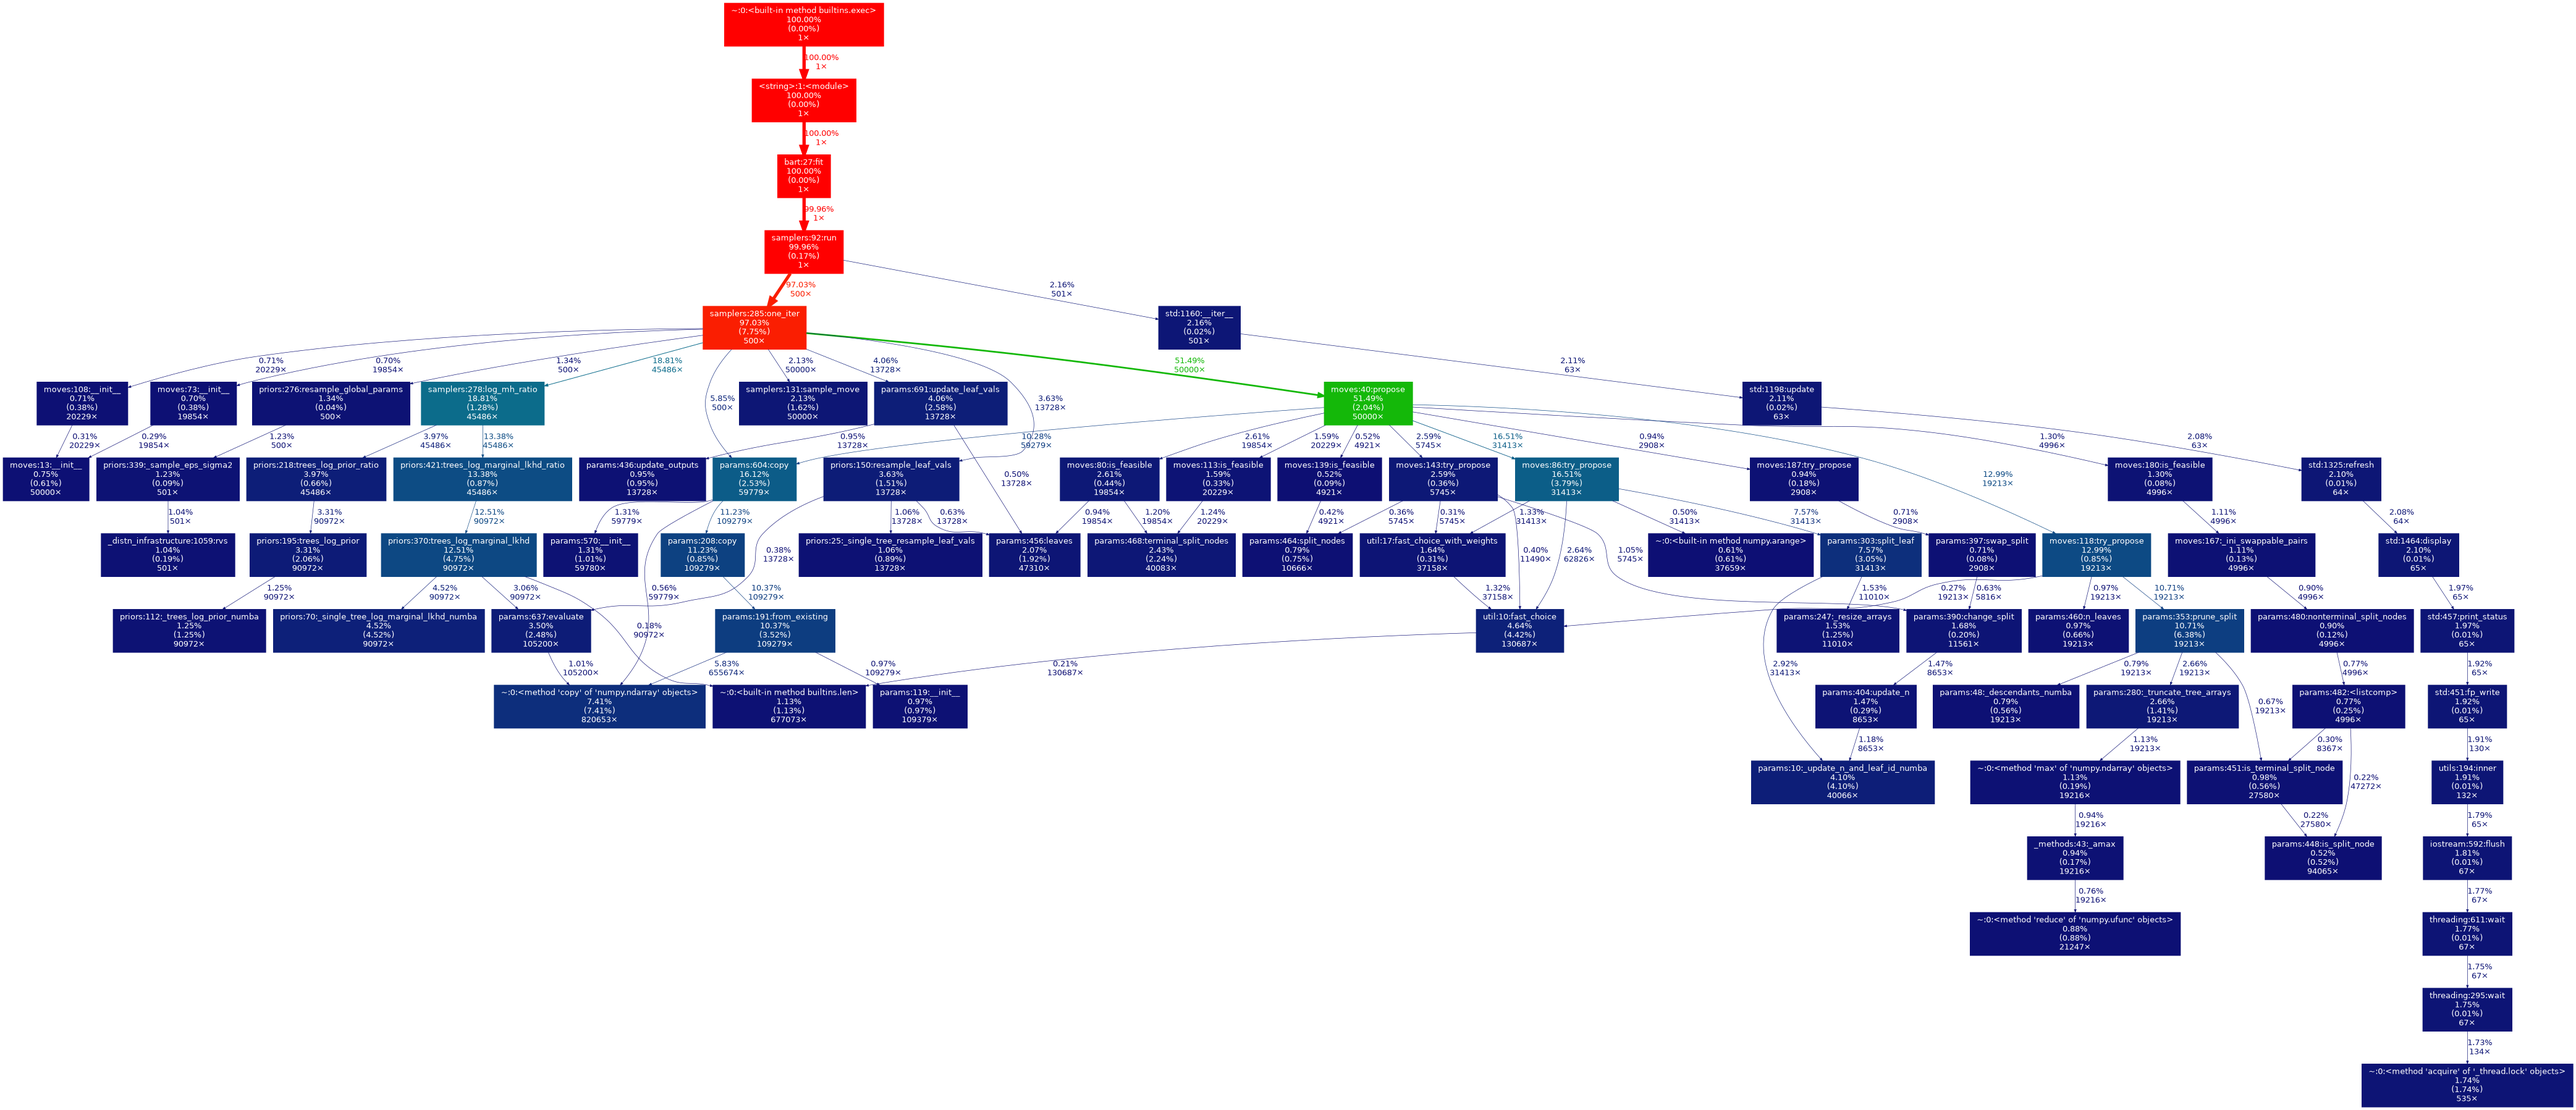
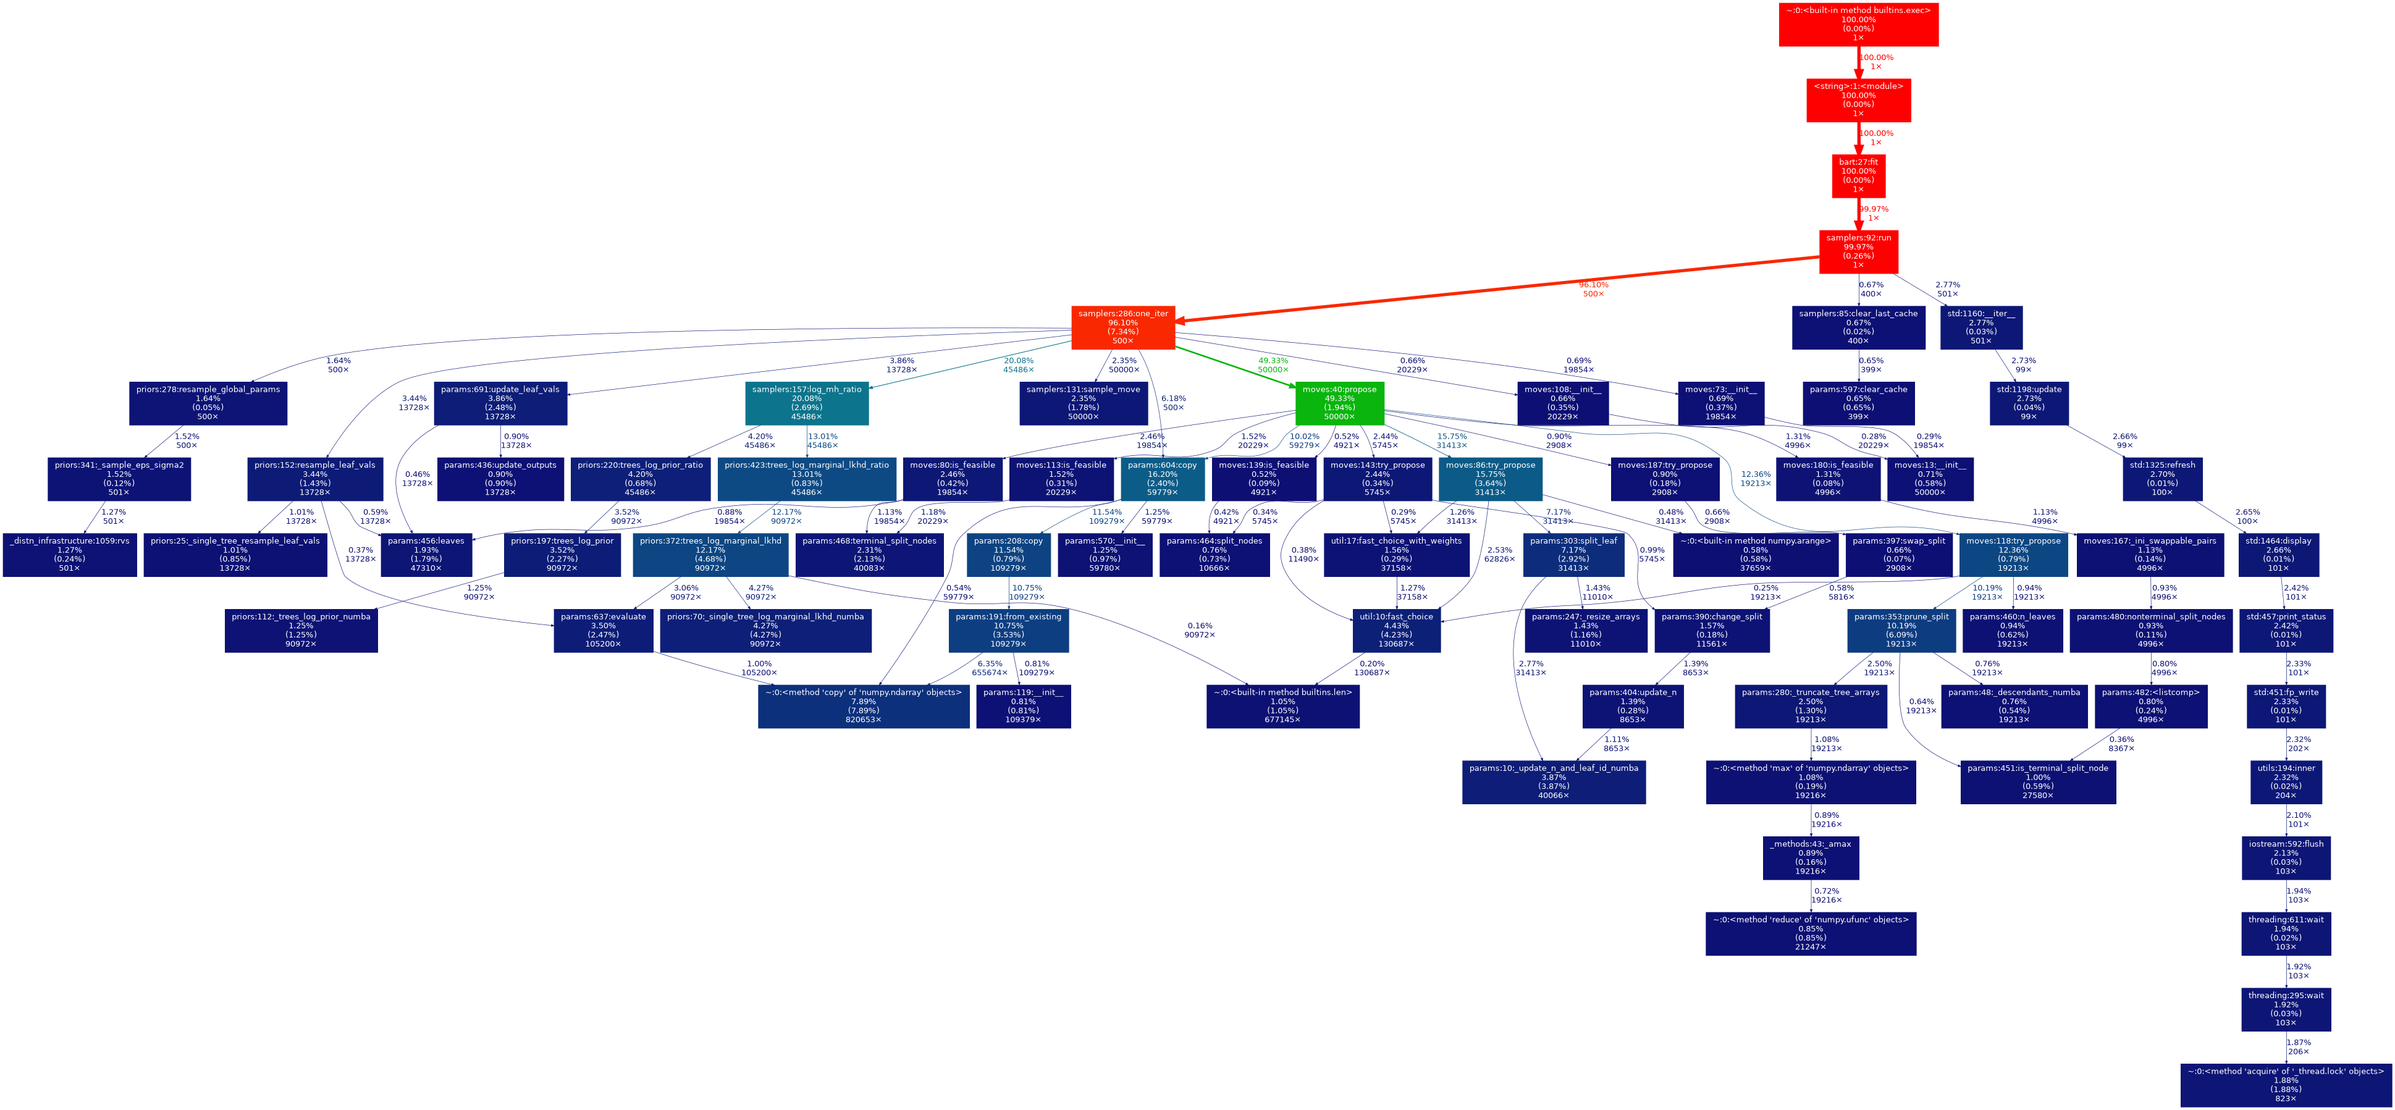
Fix a long-standing potential issue (ignoring move probability)

Changed region(s): [[0.0, 0.0, 0.9675, 0.9972], [0.5618, 0.2493, 0.6866, 0.2805], [0.9987, 0.9661, 1.0, 0.9972]]

diff --git a/bart_playground/samplers.py b/bart_playground/samplers.py
@@ -6,7 +6,7 @@ from typing import Callable, Optional, Any
 from scipy.stats import truncnorm   
 
 from .params import Tree, Parameters
-from .moves import all_moves, Move
+from .moves import all_moves, Move, contrary_moves
 from .util import Dataset
 from .priors import  ComprehensivePrior, ProbitPrior, LogisticPrior
 
@@ -154,6 +154,14 @@ class Sampler(ABC):
         move_cls = all_moves[move_str]
         return move_str, move_cls
     
+    def log_mh_ratio(self, move : Move, temp, move_key: str, data_y = None, marginalize : bool=False):
+        """Calculate total log Metropolis-Hastings ratio with proposal-probability correction."""
+        data_y = self.data.y if data_y is None else data_y
+        return (self.tree_prior.trees_log_prior_ratio(move) + \
+            self.likelihood.trees_log_marginal_lkhd_ratio(move, data_y, marginalize)) / temp + \
+            move.log_tran_ratio + \
+            np.log(self.proposals[contrary_moves[move_key]]) - np.log(self.proposals[move_key])
+    
     @abstractmethod
     def get_init_state(self) -> Any:
         """
@@ -275,13 +283,6 @@ class DefaultSampler(Sampler):
         global_params = self.global_prior.init_global_params(self.data)
         return Parameters(trees, global_params)
     
-    def log_mh_ratio(self, move : Move, temp, data_y = None, marginalize : bool=False):
-        """Calculate total log Metropolis-Hastings ratio"""
-        data_y = self.data.y if data_y is None else data_y
-        return (self.tree_prior.trees_log_prior_ratio(move) + \
-            self.likelihood.trees_log_marginal_lkhd_ratio(move, data_y, marginalize)) / temp + \
-            move.log_tran_ratio
-
     def one_iter(self, current, temp, return_trace=False):
         """
         Perform one iteration of the sampler.
@@ -298,7 +299,7 @@ class DefaultSampler(Sampler):
                 self.move_success_counts[move_key] += 1
                 Z = self.generator.uniform(0, 1)
                 marginalize = getattr(self, 'marginalize', False)
-                if np.log(Z) < self.log_mh_ratio(move, temp, marginalize=marginalize):
+                if np.log(Z) < self.log_mh_ratio(move, temp, move_key=move_key, marginalize=marginalize):
                     self.move_accepted_counts[move_key] += 1
                     new_leaf_vals = self.tree_prior.resample_leaf_vals(move.proposed, data_y = self.data.y, tree_ids = [k])
                     move.proposed.update_leaf_vals([k], new_leaf_vals)
@@ -336,12 +337,6 @@ class ProbitSampler(Sampler):
         init_state = Parameters(trees, {"eps_sigma2": 1})
         return init_state
     
-    def log_mh_ratio(self, move : Move, temp, data_y, marginalize : bool=False):
-        """Calculate total log Metropolis-Hastings ratio"""
-        return (self.tree_prior.trees_log_prior_ratio(move) + \
-            self.likelihood.trees_log_marginal_lkhd_ratio(move, data_y, marginalize)) / temp + \
-            move.log_tran_ratio
-            
     def __sample_Z(self, y, Gx):
         Z = np.empty_like(Gx)
 
@@ -381,7 +376,7 @@ class ProbitSampler(Sampler):
             if move.propose(self.generator): # Check if a valid move was proposed
                 self.move_success_counts[move_str] += 1
                 Z = self.generator.uniform(0, 1)
-                if np.log(Z) < self.log_mh_ratio(move, temp, latents):
+                if np.log(Z) < self.log_mh_ratio(move, temp, move_key=move_str, data_y=latents):
                     self.move_accepted_counts[move_str] += 1
                     new_leaf_vals = self.tree_prior.resample_leaf_vals(move.proposed, data_y = latents, tree_ids = [k])
                     move.proposed.update_leaf_vals([k], new_leaf_vals)
@@ -480,13 +475,6 @@ class LogisticSampler(Sampler):
                 # Clear cache for each category's parameters
                 self.trace[-1][category].clear_cache()
     
-    def log_mh_ratio(self, move : Move, temp, data_y = None, marginalize : bool=False):
-        """Calculate total log Metropolis-Hastings ratio"""
-        data_y = self.data.y if data_y is None else data_y
-        return (self.tree_prior.trees_log_prior_ratio(move) + \
-            self.likelihood.trees_log_marginal_lkhd_ratio(move, data_y, marginalize)) / temp + \
-            move.log_tran_ratio
-    
     def one_iter(self, current, temp, return_trace=False):
         """
         Perform one iteration of the sampler.
@@ -521,7 +509,7 @@ class LogisticSampler(Sampler):
                     self.move_success_counts[move_str] += 1
                     yi_match = (self.data.y == category)
                     Z = self.generator.uniform(0, 1)
-                    if np.log(Z) < self.log_mh_ratio(move, temp=temp, data_y=yi_match):
+                    if np.log(Z) < self.log_mh_ratio(move, temp=temp, data_y=yi_match, move_key=move_str):
                         self.move_accepted_counts[move_str] += 1
                         new_leaf_vals = self.tree_prior.resample_leaf_vals(move.proposed, data_y=yi_match, tree_ids=[h])
                         move.proposed.update_leaf_vals([h], new_leaf_vals)

diff --git a/bart_playground/moves.py b/bart_playground/moves.py
@@ -157,8 +157,8 @@ class Swap(Move):
                  possible_thresholds = None, tol : int = 100):
         super().__init__(current, trees_changed, tol = tol)
         assert len(trees_changed) == 1
-        self.swappable_pairs = None
-        self.idx = None
+        self.swappable_pairs = []
+        self.idx = 0
         
     @property
     def _num_possible_proposals(self):
@@ -199,3 +199,11 @@ all_moves = {"grow" : Grow,
             "prune" : Prune,
             "change" : Change,
             "swap" : Swap}
+
+# Mapping of each move to its contrary move used in MH ratio adjustments
+contrary_moves = {
+    "grow": "prune",
+    "prune": "grow",
+    "change": "change",
+    "swap": "swap",
+}
